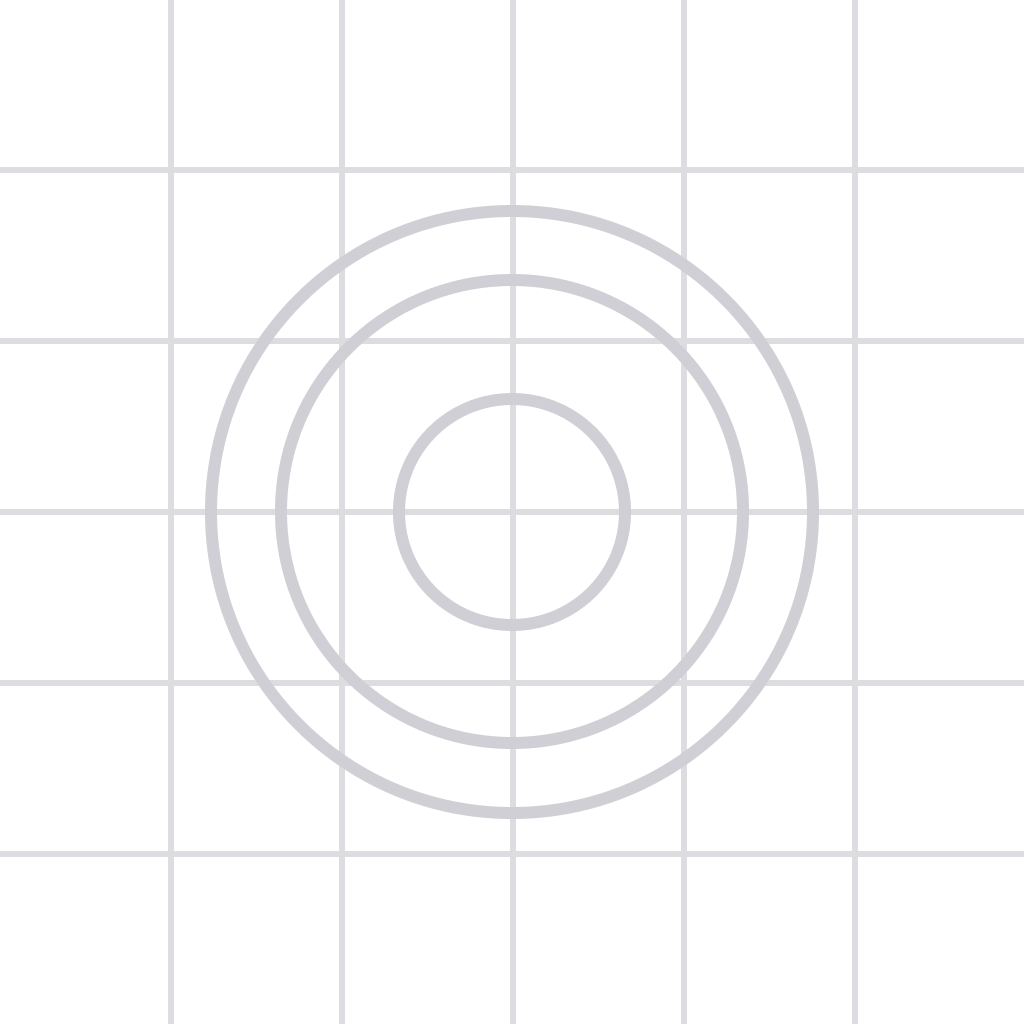
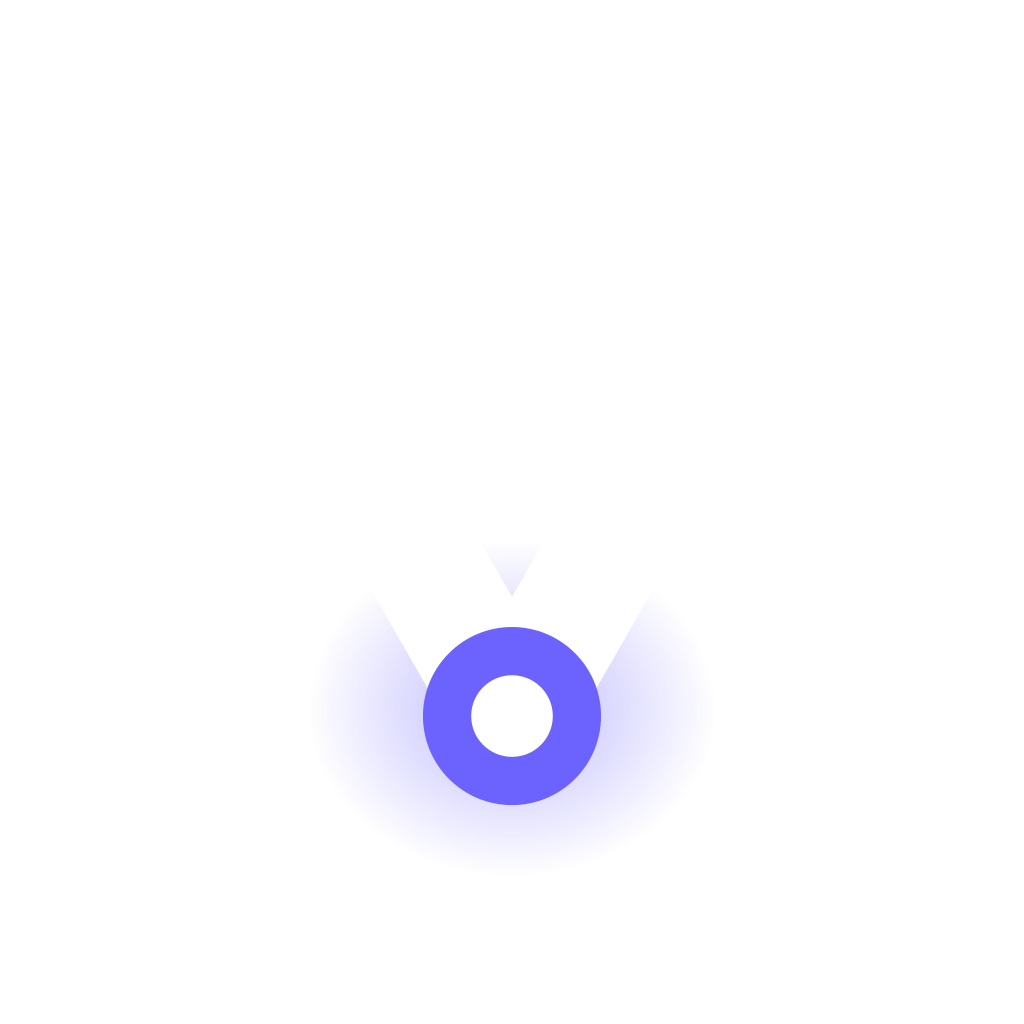
fix: resolve multiple preview build issues
- eas.json env blocks: apps/mobile/eas.json was missing all EXPO_PUBLIC_* env blocks; replaced with full config including dev/preview/prod Supabase URLs (fixes supabaseUrl is required crash on preview APK)
- invites.ts: replace crypto.randomUUID() with ExpoCrypto.randomUUID() from expo-crypto; Hermes production APK lacks the Web Crypto polyfill that Metro injects in dev builds (fixes invite link creation failing in prod)
- app icons: replace Expo placeholder template PNGs with real Vacationist artwork from play-store/icon.png (regular icon) and new foreground-only SVG rendered via sharp (adaptive icon foreground, transparent background)
- GoogleSignInButton: make logo prop optional; render official Google G image when provided, fall back to text placeholder; add logo prop to login.tsx and GuestUpgradeSheet.tsx
- settings.tsx: shorten label to Request Documents

diff --git a/packages/ui/src/components/GoogleSignInButton.tsx b/packages/ui/src/components/GoogleSignInButton.tsx
@@ -1,13 +1,13 @@
-import { ActivityIndicator, Pressable, Text, View } from 'react-native';
-import { Ionicons } from '@expo/vector-icons';
+import { ActivityIndicator, Image, ImageSourcePropType, Pressable, Text, View } from 'react-native';
 
 interface GoogleSignInButtonProps {
   onPress: () => void;
+  logo?: ImageSourcePropType;
   loading?: boolean;
   disabled?: boolean;
 }
 
-export function GoogleSignInButton({ onPress, loading = false, disabled = false }: GoogleSignInButtonProps) {
+export function GoogleSignInButton({ onPress, logo, loading = false, disabled = false }: GoogleSignInButtonProps) {
   const isDisabled = disabled || loading;
 
   return (
@@ -33,7 +33,13 @@ export function GoogleSignInButton({ onPress, loading = false, disabled = false 
       ) : (
         <>
           <View style={{ width: 20, height: 20, alignItems: 'center', justifyContent: 'center' }}>
-            <Ionicons name="logo-google" size={20} color="#FFFFFF" />
+            {logo ? (
+              <Image source={logo} style={{ width: 20, height: 20 }} resizeMode="contain" />
+            ) : (
+              // Replace with: logo={require('path/to/google-g-logo.png')}
+              // Download the official white Google G from https://developers.google.com/identity/branding-guidelines
+              <Text style={{ color: '#FFFFFF', fontSize: 14, fontWeight: '700' }}>G</Text>
+            )}
           </View>
           <Text
             style={{

diff --git a/packages/api/src/invites.ts b/packages/api/src/invites.ts
@@ -1,3 +1,4 @@
+import * as ExpoCrypto from 'expo-crypto';
 import { supabase } from './client';
 import type { InviteToken, CreateInviteInput, InviteExpiry } from '@vacationist/types';
 
@@ -19,7 +20,7 @@ export async function createInviteToken(
   if (!session?.user) throw new Error('Not authenticated');
   const user = session.user;
 
-  const token = crypto.randomUUID();
+  const token = ExpoCrypto.randomUUID();
 
   const { data, error } = await supabase
     .from('invite_tokens')

diff --git a/apps/mobile/app/trip/[id]/settings.tsx b/apps/mobile/app/trip/[id]/settings.tsx
@@ -197,7 +197,7 @@ export default function SettingsTab() {
             <View className="flex-row gap-sm">
               <View className="flex-1">
                 <Button
-                  label="Request Document Access"
+                  label="Request Documents"
                   variant="secondary"
                   onPress={() => setRequestDocVisible(true)}
                   loading={createAccessRequest.isPending}

diff --git a/apps/mobile/app/(auth)/login.tsx b/apps/mobile/app/(auth)/login.tsx
@@ -60,6 +60,7 @@ export default function LoginScreen() {
             onPress={handleGoogleSignIn}
             loading={googleLoading}
             disabled={magicLinkLoading}
+            logo={require('../../assets/images/google-g-logo.png')}
           />
 
           <View className="flex-row items-center gap-md my-sm">

diff --git a/apps/mobile/src/features/profile/components/GuestUpgradeSheet.tsx b/apps/mobile/src/features/profile/components/GuestUpgradeSheet.tsx
@@ -80,6 +80,7 @@ export function GuestUpgradeSheet({ visible, onClose }: GuestUpgradeSheetProps) 
                   onPress={upgradeWithGoogle}
                   loading={isPending}
                   disabled={isPending}
+                  logo={require('../../../../assets/images/google-g-logo.png')}
                 />
 
                 {/* Divider */}